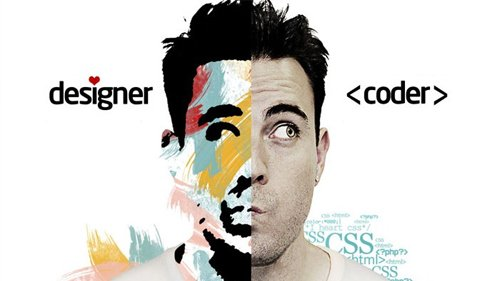
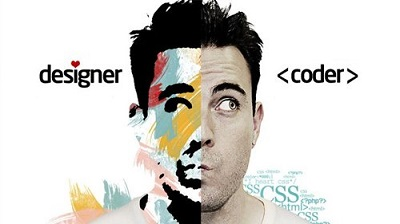
img html fix

diff --git a/WebContent/artigo1.html b/WebContent/artigo1.html
@@ -24,7 +24,7 @@
         </div>
 
         <div class="parallax-container hide-on-med-and-up">
-            <div class="parallax"><img class="img-responsive" src="img/banner-mobile.png" width="300"></div>
+            <div class="parallax"><img class="img-responsive" src="img/banner-mobile.jpg" width="300"></div>
         </div>
 
         <div class="row">

diff --git a/WebContent/artigo2.html b/WebContent/artigo2.html
@@ -24,7 +24,7 @@
         </div>
 
         <div class="parallax-container hide-on-med-and-up">
-            <div class="parallax"><img class="img-responsive" src="img/banner-mobile.png" width="300"></div>
+            <div class="parallax"><img class="img-responsive" src="img/banner-mobile.jpg" width="300"></div>
         </div>
 
         <div class="row">

diff --git a/WebContent/index.html b/WebContent/index.html
@@ -22,7 +22,7 @@
 	</div>
 
 	<div class="parallax-container hide-on-med-and-up">
-		<div class="parallax"><img class="img-responsive" src="img/banner-mobile.png" width="300"></div>
+		<div class="parallax"><img class="img-responsive" src="img/banner-mobile.jpg" width="300"></div>
 	</div>
 
 	<div class="row menu-site">
